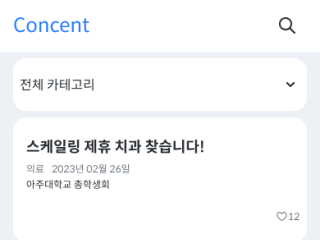
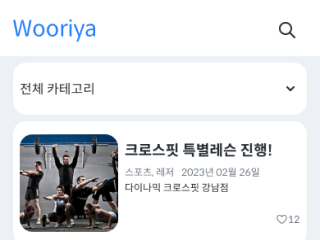
FE 03/13 build page commit

diff --git a/src/routes/main/aboutUs.js b/src/routes/main/aboutUs.js
@@ -25,7 +25,7 @@ function AboutUs() {
                     <img className="aboutUs_margin_auto" src={img_handShake} alt="handShake"/>
                     <p className="aboutUs_headLine_1">
                         클릭으로 시작하는 제휴<br/>
-                        <span style={{color:"#267DFF"}}>콘센트</span>
+                        <span style={{color:"#267DFF"}}>우리야</span>
                     </p>
                     <p className="aboutUs_underArrow">
                         내려서 확인해보기 <br /><br />
@@ -34,7 +34,7 @@ function AboutUs() {
                 </div>
                 <div className="aboutUs_frame66">
                     <p className="aboutUs_headLine_3">
-                        콘센트 비즈니스 모드
+                        우리야 비즈니스 모드
                     </p>
                     <p className="aboutUs_headLine_2">
                         간편 등록부터 <br />
@@ -76,12 +76,12 @@ function AboutUs() {
                 <div className="aboutUs_frame67">
                     <p className="aboutUs_headLine_2">
                         지금 알아볼래요?<br/>
-                        콘센트 비즈니스 등록방법
+                        우리야 비즈니스 등록방법
                     </p>
                     <div className="aboutUs_cardBox">
                         <div className="aboutUs_card_2">
                             <img className="aboutUs_cardImg_2" src={img_step1} alt=""/>
-                            <p className="aboutUs_subTitle_1">콘센트 가입하기</p>
+                            <p className="aboutUs_subTitle_1">우리야 가입하기</p>
                         </div>
                         <div className="aboutUs_card_2">
                             <img className="aboutUs_cardImg_2" src={img_step2} alt=""/>
@@ -95,7 +95,7 @@ function AboutUs() {
                         </div>
                         <div className="aboutUs_card_2">
                             <img className="aboutUs_cardImg_2" src={img_step4} alt=""/>
-                            <p className="aboutUs_subTitle_1">콘센트 활동 준비 끝!</p>
+                            <p className="aboutUs_subTitle_1">우리야 활동 준비 끝!</p>
                         </div>
                     </div>
                 </div>

diff --git a/src/component/navBar.js b/src/component/navBar.js
@@ -19,7 +19,7 @@ function NavBar({userObjInStore, SignOutToStore}) {
     return (
         <nav className="navBar_background">
             <div className="navBar_logo">
-                <NavLink to={'/'} className="navBar_inherit">CONCENT</NavLink>
+                <NavLink to={'/'} className="navBar_inherit">Wooriya</NavLink>
             </div>
             <div className="navBar_menu">
                 <NavLink to={'/aboutus'} className="navBar_inherit">About Us</NavLink>

diff --git a/public/index.html b/public/index.html
@@ -6,7 +6,7 @@
       rel='stylesheet' 
       type='text/css'
     >
-    <title>CONCENT</title>
+    <title>Wooriya</title>
     <style>
       * {
         font-family: 'Spoqa Han Sans Neo', 'sans-serif';
